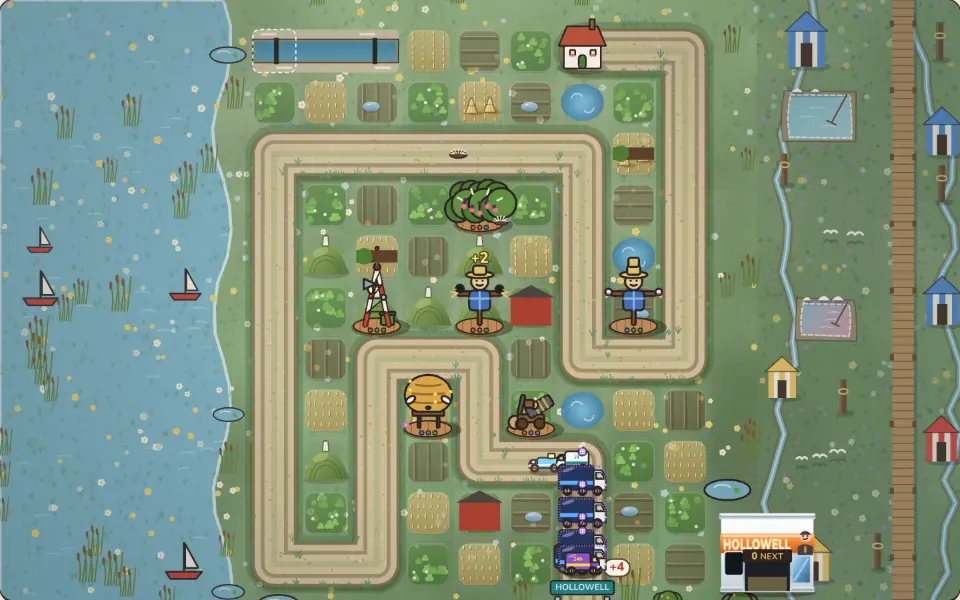
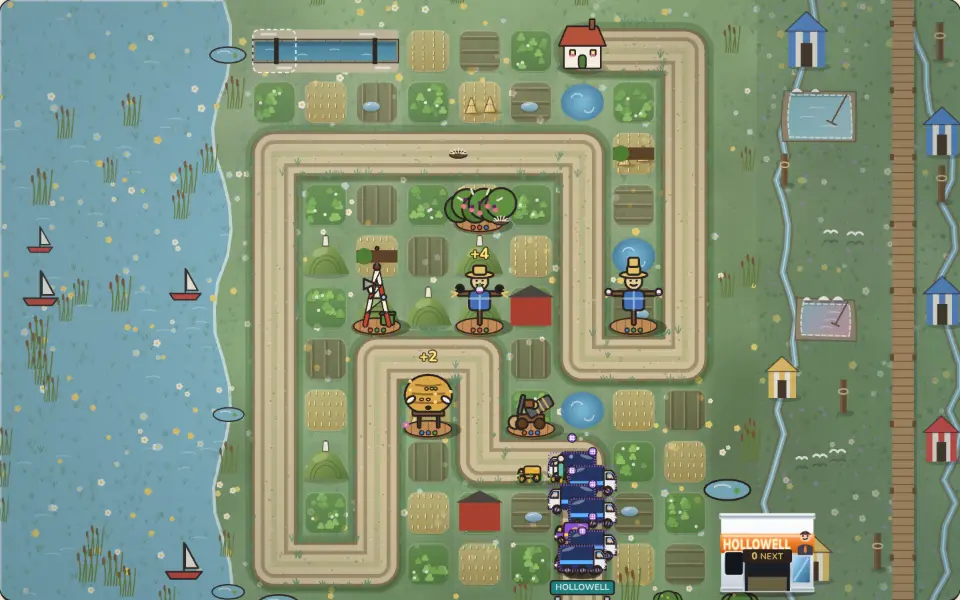
Hedgerow 2D: tower silhouettes leave the footing out, and the hedge's back row is cut (gate 5: silhouettes, 2D Cath)
Item 322's mound was drawn into towerSilhouette (documented as the body alone), so every
tier-1 pair overlapped more (4 pairs at 0.71-0.75) and the scarecrow measured taller than
the 2D Cath's 1.2x bound. The hedge's back row of crowns made it a block like the barn
(0.71, and 0.72-0.73 with lighter back rows); without it 0.67. Key art re-shot.

Claude-Session: https://claude.ai/code/session_01SimvMMoC4yN7oJx8tzE4t1

diff --git a/games/hedgerow/src/sprites.ts b/games/hedgerow/src/sprites.ts
@@ -60,6 +60,8 @@ export interface TowerLook {
   path?: readonly number[];
   /** Reduced motion: no idle breath and no squash on firing. */
   still?: boolean;
+  /** The body alone, without the ground it stands on (item 322's footing): for silhouettes. */
+  bare?: boolean;
 }
 
 const SPEC_COLOURS: [string, string] = ["#c4433a", "#3f6fb5"];
@@ -175,7 +177,7 @@ export function drawTower(ctx: C, look: TowerLook, x: number, y: number, s: numb
   groundShadow(ctx, x + s * 0.06, base + s * 0.02, s * (tier === 1 ? 0.4 : 0.48), s * (tier === 1 ? 0.13 : 0.16), 0.36);
   // ...and a tier-1 tower stands on a footing of turned earth, so it reads as set on the plot, not printed on it
   // (a pond is the ground itself).
-  if (tier === 1 && look.kind !== "pond") drawFooting(ctx, x, base, s);
+  if (tier === 1 && look.kind !== "pond" && !look.bare) drawFooting(ctx, x, base, s);
   drawPlinth(ctx, tier, x, base, s);
   // Idle: a slow breath. Fire: a quick squash and stretch as it lets go.
   const kick = !look.still && look.fired < 0.15 ? Math.sin((look.fired / 0.15) * Math.PI) : 0;
@@ -213,13 +215,6 @@ function drawTowerBody(ctx: C, look: TowerLook, x: number, y: number, s: number,
       const n = 3 + Math.min(tier, 3);
       const dark = spec === 0 ? "#2f5a2a" : spec === 1 ? "#4a6b2c" : "#4c7a34";
       const light = spec === 0 ? "#3f6e33" : spec === 1 ? "#5e8636" : "#5f8f3f";
-      // Plan item 322: a back row of crowns rises behind the front bushes, so the hedge stands as tall as its
-      // neighbours (it was a 50 px row of blobs at D).
-      for (let i = 0; i < n - 1; i++) {
-        const bx = x + (i - (n - 2) / 2) * s * (0.6 / n) * 1.3;
-        const by = base - s * 0.42 - (i % 2) * s * 0.05 + Math.sin(t * 1.3 + i * 1.7) * s * 0.008;
-        blob(ctx, bx, by, s * (0.17 + ((i + 1) % 2) * 0.02), dark);
-      }
       for (let i = 0; i < n; i++) {
         const bx = x + (i - (n - 1) / 2) * s * (0.6 / n) * 1.3;
         const by = base - s * 0.2 - (i % 2) * s * 0.08 + Math.sin(t * 1.5 + i) * s * 0.008;
@@ -2341,7 +2336,8 @@ export function propIconsFor(pm: number): Property[] {
 
 /**
  * Plan item 52: a tower's tier-1 silhouette at a given cell size, as a mask (1 where the body covers a pixel, the
- * soft ground shadow left out). Tests compare these pairwise so towers stay tellable apart at phone size.
+ * soft ground shadow and item 322's footing of turned earth left out: every tier-1 tower shares that ground, so it
+ * says nothing about which tower it is). Tests compare these pairwise so towers stay tellable apart at phone size.
  */
 export function towerSilhouette(kind: TowerKind, cell = 24): { w: number; h: number; mask: number[] } {
   const w = Math.round(cell * 1.5);
@@ -2350,7 +2346,7 @@ export function towerSilhouette(kind: TowerKind, cell = 24): { w: number; h: num
   c.width = w;
   c.height = h;
   const ctx = c.getContext("2d")!;
-  drawTower(ctx, { kind, tier: 1, spec: null, fired: 9, dazed: false, still: true }, w / 2, h / 2, cell, 0);
+  drawTower(ctx, { kind, tier: 1, spec: null, fired: 9, dazed: false, still: true, bare: true }, w / 2, h / 2, cell, 0);
   const d = ctx.getImageData(0, 0, w, h).data;
   const mask: number[] = [];
   for (let i = 0; i < w * h; i++) mask.push(d[i * 4 + 3]! > 160 ? 1 : 0);
